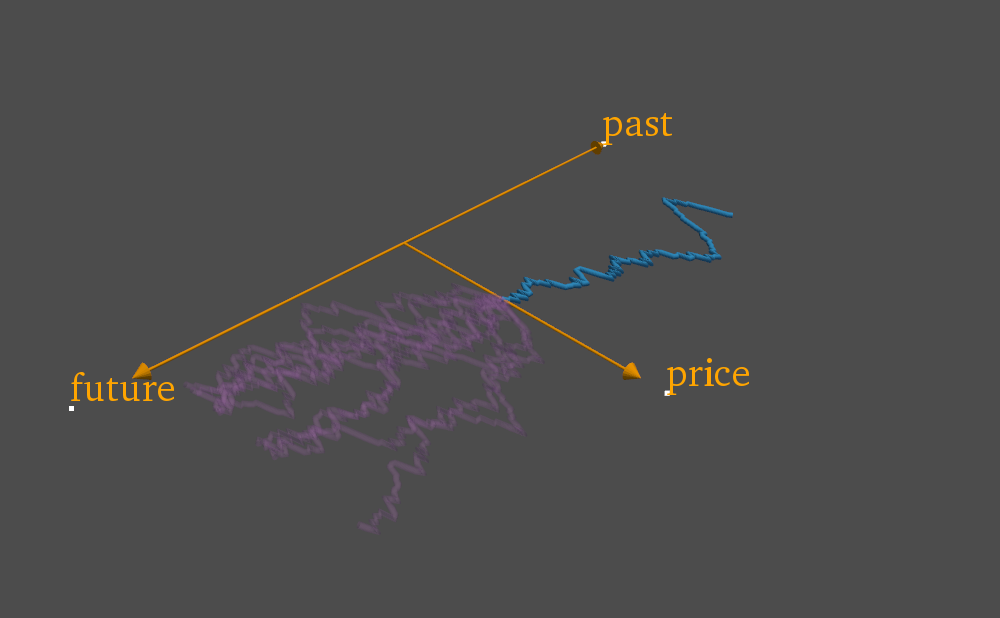
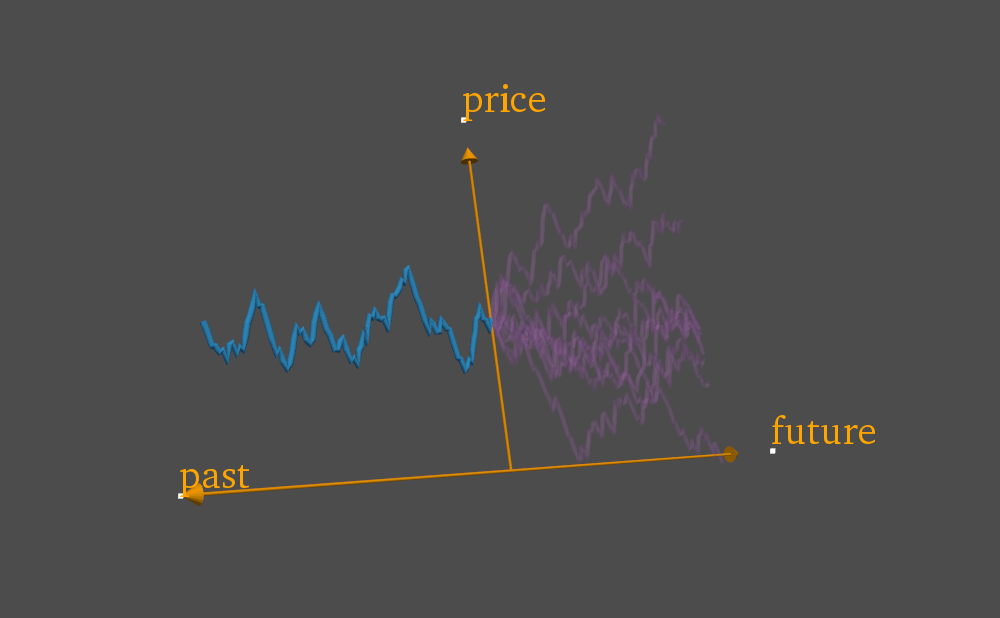
put option figure generated

diff --git a/src/options_001.py b/src/options_001.py
@@ -29,7 +29,7 @@ def addBasicsToPlotter(p, n=3):
 
     return
 
-def generateRandomPath(startX, stopX, anchorAtStart=True, anchorYPos=0, r=0.5,scalars = None):
+def generateRandomPath(startX, stopX, anchorAtStart=True, anchorYPos=0, r=0.5,scalars = None, useOld=True):
 
     if scalars is None:
         nPts = 100
@@ -43,6 +43,11 @@ def generateRandomPath(startX, stopX, anchorAtStart=True, anchorYPos=0, r=0.5,sc
         yPts = yPts - yPts[0] + anchorYPos
     else:
         yPts = yPts - yPts[-1] + anchorYPos
+
+    if useOld:
+        yPts = np.load('../images/yPts1.npy')
+    else:
+        np.save('../images/yPts1.npy', yPts)
 
 
     points = np.column_stack((xPts, yPts, zPts))
@@ -71,7 +76,7 @@ def generateRandomSinPath(startX, stopX, anchorAtStart=True, anchorYPos=0, r=0.5
 
     xPts = np.linspace(startX, stopX, nPts)
     zPts = np.zeros(nPts)
-    yPts = np.sin(xPts)*sinR
+    yPts = - np.sin(xPts + np.pi/6)*sinR
     yPts += np.cumsum( (np.random.rand(nPts) - 0.5)*r )
     if anchorAtStart:
         yPts = yPts - yPts[0] + anchorYPos
@@ -100,18 +105,60 @@ def generateRandomSinPath(startX, stopX, anchorAtStart=True, anchorYPos=0, r=0.5
 
     return tube
 
-def generatePutOption(p, size=6):
+def generatePutOption(p, putPos=3, size=6):
 
     axis3D = np.array([1,0,0])
     yPos = -1
 
+    # Plot the arrow at the bottom signifying the 
+    # time of expiry
     arrow1 = pv.Arrow( start= ([size-1., yPos, 0]), direction=axis3D, tip_length=0.5, tip_radius=0.15, shaft_radius=.025)
     arrow2 = pv.Arrow( start= ([1, yPos, 0]), direction=axis3D*-1, tip_length=0.5, tip_radius=0.15, shaft_radius=.025)
     axis1  = pv.Cylinder( radius = 0.025, direction=axis3D, center=np.array([0.5*size, yPos, 0]), height=size, resolution=100 )
     
+    p.add_point_labels([(size/2,-2,0)], [ 'time to expiry'], 
+        font_family='times', font_size=20, fill_shape=False, shape=None, 
+        bold=False, text_color='#aeb6bf',
+        show_points=False, point_size=0, point_color=(0.3,0.3,0.3))
+
     p.add_mesh(arrow1, color='#aeb6bf')
     p.add_mesh(arrow2, color='#aeb6bf')
     p.add_mesh(axis1, color='#aeb6bf')
+
+
+    # Dashed lines for various purposes ...
+    dashSize = 0.1
+    spaceSize = 0.05
+    yPos = 5
+
+    # Horizontal blue line
+    for i in np.linspace(0, 10, int(10/(dashSize+spaceSize)) ):
+        cyl = pv.Cylinder( radius = 0.025, direction=axis3D, center=np.array([i+dashSize/2, yPos, 0]), height=dashSize, resolution=100 )
+        p.add_mesh( cyl, color='#3498db' )
+
+    # vertical line
+    for i in np.linspace(0, 10, int(10/(dashSize+spaceSize)) ):
+        cyl = pv.Cylinder( radius = 0.025, direction=axis3D, center=np.array([size , i+dashSize/2, 0]), height=dashSize, resolution=100 )
+        p.add_mesh( cyl, color='#aeb6bf' )
+
+    # Put option line 
+    for i in np.linspace(0, size, int(size/(dashSize+spaceSize)) ):
+        cyl = pv.Cylinder( radius = 0.025, direction=axis3D, center=np.array([i+dashSize/2, putPos, 0]), height=dashSize, resolution=100 )
+        p.add_mesh( cyl, color='#85929e' )
+
+    plane = pv.Plane(center=( size/2 , putPos/2,0), direction=(0,0,1), i_size=size, j_size=putPos)
+    plane['scalars'] = np.ones(plane.n_points)
+    p.add_mesh( plane,  color='#85929e', opacity=0.1, show_edges=True, edge_color = '#85929e' )
+
+    p.add_point_labels([(size/2, putPos/2,0)], [ 'buyer makes money here'], 
+        font_family='times', font_size=20, fill_shape=False, shape=None, 
+        bold=False, text_color='#85929e',
+        show_points=False, point_size=0, point_color=(0.3,0.3,0.3))
+
+    p.add_point_labels([(-3, putPos-0.25, 0)], [ 'buy put'], 
+        font_family='times', font_size=20, fill_shape=False, shape=None, 
+        bold=False, text_color='#85929e',
+        show_points=False, point_size=0, point_color=(0.3,0.3,0.3))
 
 
     return
@@ -136,9 +183,9 @@ def multiPath():
     
     # pv.set_plot_theme('document')
 
-    cPos = [(22.51860210286206, 27.416261394371915, 22.066261400332372),
-                (0.4523407025296695, 5.3499999940395355, 0.0),
-                (0.0, 0.0, 1.0)]
+    cPos = [(-23.05612034150191, -2.7693125110075827, 29.020487596695087),
+            (0.4523407025296695, 5.3499999940395355, 0.0),
+            (-0.02717479322234445, 0.96815896925231, 0.248856868238808)]
 
     p = pv.Plotter(window_size=(1000, int(1000/1.618)),
         polygon_smoothing=True,
@@ -166,12 +213,12 @@ def probabilities():
     knownPath = generateRandomPath(
                 -10, 0, 
                 anchorAtStart=False, anchorYPos=5, 
-                r=1, scalars = None)
+                r=1, scalars = None, useOld=True)
 
     unknownPath = generateRandomSinPath(
                     0, 10, 
                     anchorAtStart=True, anchorYPos=5, 
-                    r=1, sinR = 2, scalars = None , useOld=True)
+                    r=1, sinR = 2, scalars = None, useOld=True)
 
     
     # pv.set_plot_theme('document')
@@ -180,6 +227,11 @@ def probabilities():
                 (0.4523407025296695, 5.3499999940395355, 0.0),
                 (0.0, 0.0, 1.0)]
 
+    cPos = [(-23.05612034150191, -2.7693125110075827, 29.020487596695087),
+            (0.4523407025296695, 5.3499999940395355, 0.0),
+            (-0.02717479322234445, 0.96815896925231, 0.248856868238808)]
+
+
     p = pv.Plotter(window_size=(1000, int(1000/1.618)),
         polygon_smoothing=True,
         point_smoothing=True,
@@ -187,12 +239,12 @@ def probabilities():
     
     addBasicsToPlotter(p, 2)
 
-    generatePutOption(p, size=6)
+    generatePutOption(p, putPos=3.5, size=6)
 
     p.add_mesh( knownPath, color='#3498db' )
     p.add_mesh( unknownPath, color='#af7ac5', opacity=0.5 )
 
-    p.add_point_labels([(-11,0,0), (13,0,0), (0,12,0)], [ 'past', 'future', 'price'], 
+    p.add_point_labels([(-13,-0.25,0), (12,-0.5,0), (-2,11,0)], [ 'past', 'future', 'price'], 
         font_family='times', font_size=40, fill_shape=False, shape=None, 
         bold=False, text_color='orange',
         show_points=False, point_size=0, point_color=(0.3,0.3,0.3))
